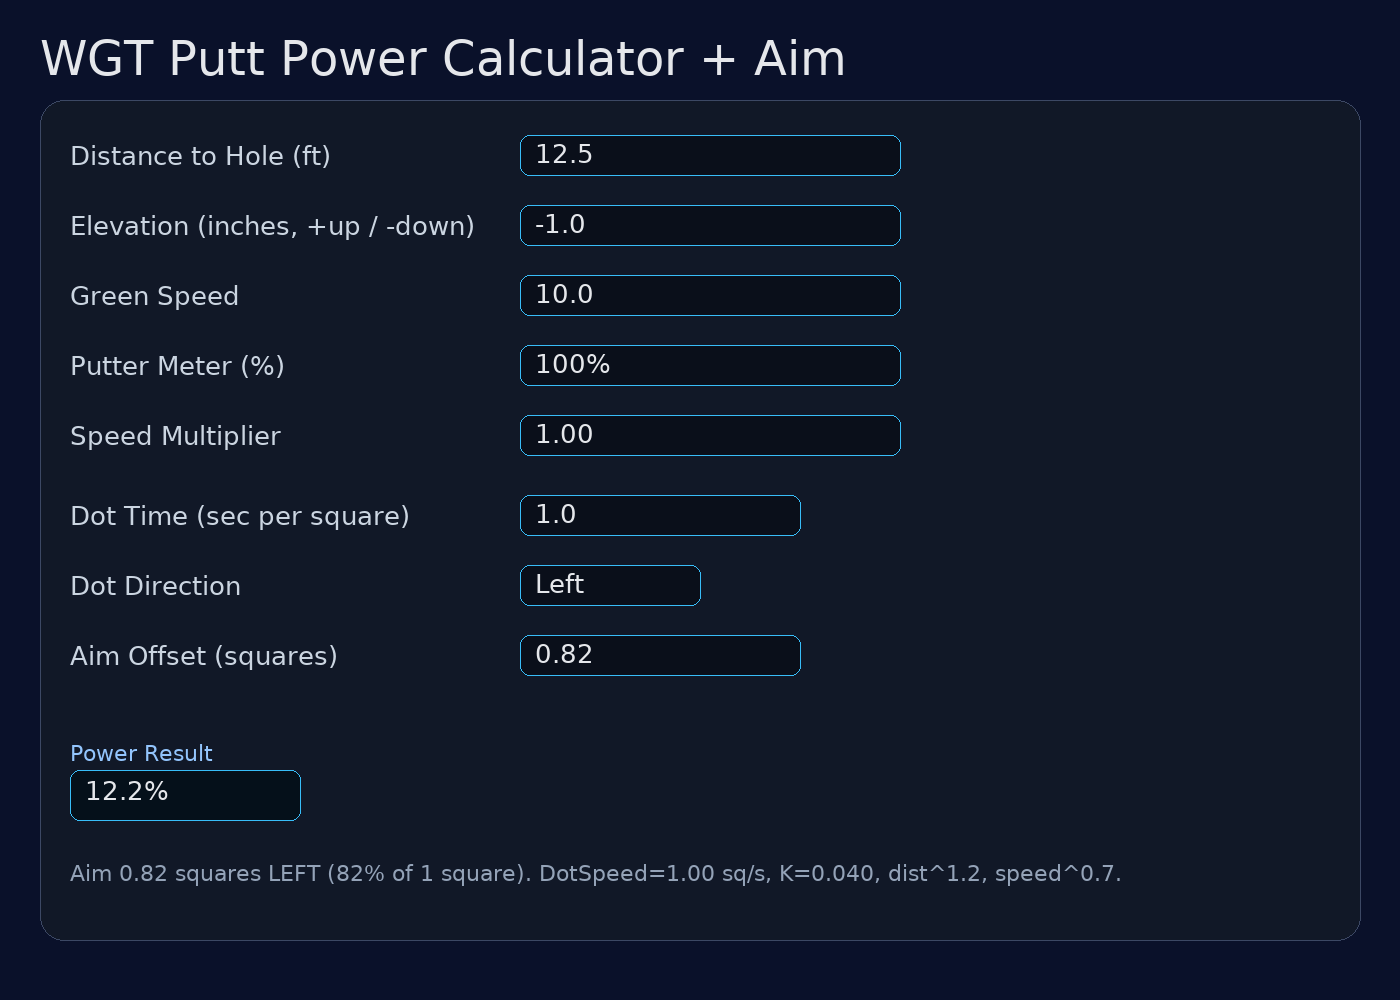
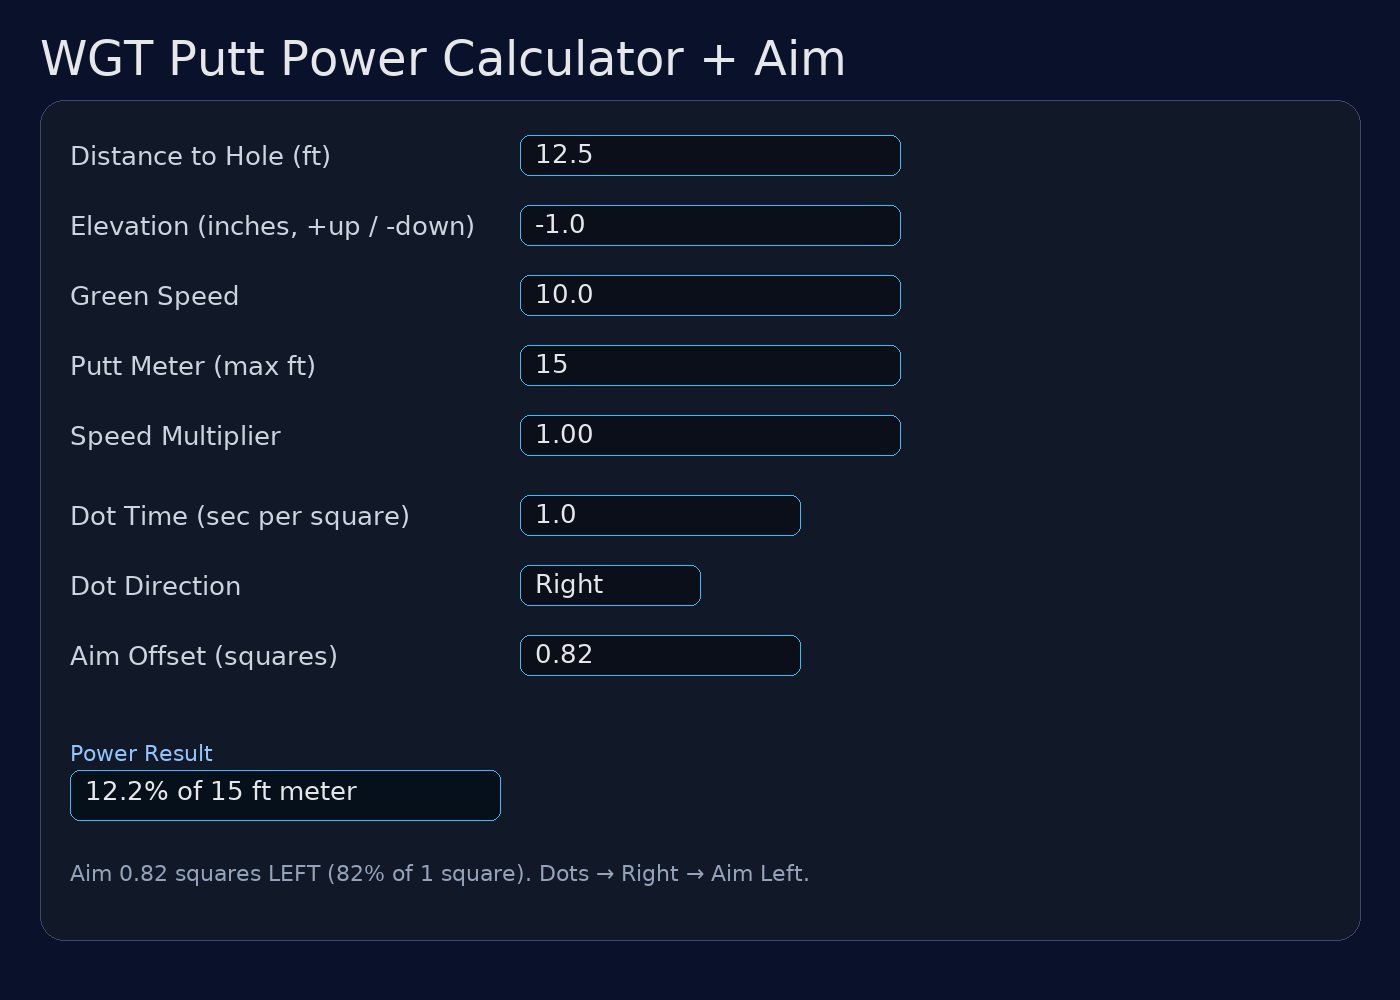
Add files via upload
Updated putt meter

diff --git a/index.html b/index.html
@@ -4,6 +4,7 @@
 <meta charset="utf-8">
 <meta name="viewport" content="width=device-width, initial-scale=1">
 <title>WGT Putt Power Calculator + Aim</title>
+<!-- version: 2025-08-09 r3 -->
 <style>
   :root{
     --bg:#0f172a; --panel:#111827; --muted:#334155; --text:#e5e7eb;
@@ -84,15 +85,24 @@
         <label for="greenSpeed">Green Speed (e.g., 10.0 = Very Fast)</label>
         <input id="greenSpeed" inputmode="decimal" type="number" step="0.1" value="10.0">
       </div>
+
       <div class="col-4">
-        <label for="putterMeter">Putter Meter (%)</label>
-        <select id="putterMeter">
-          <option value="100" selected>100%</option>
-          <option value="75">75%</option>
-          <option value="50">50%</option>
-          <option value="25">25%</option>
+        <label for="meterMax">Putt Meter (max distance, ft)</label>
+        <select id="meterMax">
+          <option value="10">10</option>
+          <option value="15" selected>15</option>
+          <option value="20">20</option>
+          <option value="25">25</option>
+          <option value="30">30</option>
+          <option value="45">45</option>
+          <option value="60">60</option>
+          <option value="90">90</option>
+          <option value="120">120</option>
+          <option value="150">150</option>
         </select>
+        <div class="hint">Choose the putt meter you use in-game.</div>
       </div>
+
       <div class="col-4">
         <label for="stimp">Speed Multiplier (tuning)</label>
         <input id="stimp" inputmode="decimal" type="number" step="0.01" value="1.00">
@@ -107,7 +117,7 @@
             <div class="col-4">
               <label for="dotTime">Dot Time — seconds per grid square</label>
               <input id="dotTime" inputmode="decimal" type="number" step="0.1" placeholder="e.g., 1.0">
-              <div class="hint">Time a single dot to travel one grid square near the hole; average a few readings.</div>
+              <div class="hint">Time a dot across one grid square near the hole; average a few readings.</div>
             </div>
             <div class="col-4">
               <label for="dotDir">Dot Direction (facing the hole)</label>
@@ -115,6 +125,7 @@
                 <option value="L">Left</option>
                 <option value="R">Right</option>
               </select>
+              <div class="hint">If dots move RIGHT, aim LEFT (and vice‑versa).</div>
             </div>
             <div class="col-4">
               <label for="aimOut">Aim Offset (squares)</label>
@@ -129,27 +140,22 @@
               <div class="col-3">
                 <label for="breakK">Break Coefficient @ speed 10</label>
                 <input id="breakK" inputmode="decimal" type="number" step="0.005" value="0.040">
-                <div class="hint">Scales overall aim. Increase if you under-read.</div>
               </div>
               <div class="col-3">
                 <label for="distExp">Distance Exponent</label>
                 <input id="distExp" inputmode="decimal" type="number" step="0.05" value="1.20">
-                <div class="hint">Nonlinear growth with distance.</div>
               </div>
               <div class="col-3">
                 <label for="spdExp">Green Speed Exponent</label>
                 <input id="spdExp" inputmode="decimal" type="number" step="0.05" value="0.70">
-                <div class="hint">How much faster greens add break.</div>
               </div>
               <div class="col-3">
                 <label for="upBreakPerFt">Uphill Break (%/ft)</label>
                 <input id="upBreakPerFt" inputmode="decimal" type="number" step="0.01" value="-0.30">
-                <div class="hint">Negative reduces break for uphill.</div>
               </div>
               <div class="col-3">
                 <label for="dnBreakPerFt">Downhill Break (%/ft)</label>
                 <input id="dnBreakPerFt" inputmode="decimal" type="number" step="0.01" value="+0.40">
-                <div class="hint">Positive increases break for downhill.</div>
               </div>
             </div>
           </details>
@@ -171,7 +177,7 @@
   </div>
 
   <div class="footer">
-    Tip: For better dot timing, count 3 squares and divide by 3 to average out jitter.
+    Tip: For steadier dot timing, count 3 squares then divide by 3.
   </div>
 </div>
 
@@ -179,7 +185,7 @@
 (function(){
   const $ = id => document.getElementById(id);
   const fields = [
-    "distance","elevationIn","greenSpeed","putterMeter","stimp",
+    "distance","elevationIn","greenSpeed","meterMax","stimp",
     "dotTime","dotDir","breakK","distExp","spdExp","upBreakPerFt","dnBreakPerFt","snapPenalty"
   ];
 
@@ -192,7 +198,7 @@
 
   // Load saved values
   try{
-    const saved = JSON.parse(localStorage.getItem("wgt_putt_aim_v1")||"{}");
+    const saved = JSON.parse(localStorage.getItem("wgt_putt_aim_v3")||"{}");
     fields.forEach(f=>{
       if(saved[f] !== undefined && $(f)){
         $(f).value = saved[f];
@@ -220,7 +226,7 @@
   function save(){
     const obj={};
     fields.forEach(f=>{ if($(f)) obj[f] = $(f).value; });
-    localStorage.setItem("wgt_putt_aim_v1", JSON.stringify(obj));
+    localStorage.setItem("wgt_putt_aim_v3", JSON.stringify(obj));
   }
 
   function formatPct(x){
@@ -228,12 +234,12 @@
   }
 
   function calc(){
-    // --- Power calc (unchanged core) ---
-    const dist_ft = toNum("distance", 0);                  // feet
-    const elev_in = toNum("elevationIn", -1.0);            // inches (UI)
-    const elev_ft = elev_in / 12.0;                        // convert to feet for math
+    // --- Power calc ---
+    const dist_ft = toNum("distance", 0);
+    const elev_in = toNum("elevationIn", -1.0);
+    const elev_ft = elev_in / 12.0;
     const speed = toNum("greenSpeed", 10.0);
-    const meter = parseFloat($("putterMeter").value) || 100;
+    const meterMax_ft = toNum("meterMax", 15.0);
     const mult  = toNum("stimp", 1.00);
     const snapP = toNum("snapPenalty", 0);
 
@@ -245,28 +251,21 @@
       return;
     }
 
-    // Effective distance with elevation
-    const upF   = 1.70;
-    const dnF   = 0.65;
+    const upF = 1.70, dnF = 0.65;
     const elevAdj_ft = elev_ft > 0 ? elev_ft * upF : elev_ft * dnF;
     const effDist_ft = Math.max(0, dist_ft + elevAdj_ft);
 
-    // Speed scaling (anchor to 10.0)
     const speedScale = (speed / 10.0) * mult;
+    let powerPct = (effDist_ft / (meterMax_ft * speedScale)) * 100.0;
+    powerPct *= (1 + snapP/100);
+    powerPct = clamp(powerPct, 0, 100);
 
-    let rawPowerPct = (effDist_ft / 100.0) * 100.0 * (1 / speedScale);
-    const meterScale = 100.0 / meter;
-    rawPowerPct *= meterScale;
-    rawPowerPct *= (1 + snapP/100);
-    rawPowerPct = clamp(rawPowerPct, 0, 100);
-
-    $("result").textContent = formatPct(rawPowerPct);
+    $("result").textContent = `Power: ${formatPct(powerPct)} of ${meterMax_ft.toFixed(0)} ft meter`;
     $("explain").textContent =
-      `Inputs → ${dist_ft.toFixed(1)} ft, elevation ${elev_in.toFixed(1)} in (${elev_ft.toFixed(3)} ft), speed ${speed.toFixed(1)}, meter ${meter}%. ` +
-      `Calc → Elev adj ${elevAdj_ft.toFixed(2)} ft ➜ eff ${effDist_ft.toFixed(2)} ft. SpeedScale ${speedScale.toFixed(3)}, MeterScale ${meterScale.toFixed(2)}.`;
+      `EffDist ${effDist_ft.toFixed(2)} ft (elev adj ${elevAdj_ft.toFixed(2)} ft). SpeedScale ${speedScale.toFixed(3)}.`;
 
-    // --- Aim calc (new) ---
-    const t_sq = toNum("dotTime", 0);        // seconds per square
+    // --- Aim calc ---
+    const t_sq = toNum("dotTime", 0);
     const dir = ($("dotDir").value || "L").toUpperCase();
     const K = toNum("breakK", 0.040);
     const a = toNum("distExp", 1.20);
@@ -275,56 +274,53 @@
     const dnPctPerFt = toNum("dnBreakPerFt", +0.40);
 
     if(t_sq > 0){
-      const dotSpeed = 1.0 / t_sq; // squares per second
+      const dotSpeed = 1.0 / t_sq; // squares/s
       const greenFactor = Math.pow((speed/10.0) * mult, b);
       const distFactor = Math.pow(effDist_ft, a);
       const elevBreakFactor = elev_ft >= 0
-        ? (1 + elev_ft * upPctPerFt)   // uphill reduces break (negative default)
-        : (1 + Math.abs(elev_ft) * dnPctPerFt); // downhill increases break (positive default)
-
-      const elevAdjFactor = Math.max(0.2, elevBreakFactor); // keep non-negative
+        ? (1 + elev_ft * upPctPerFt)   // uphill reduces break
+        : (1 + Math.abs(elev_ft) * dnPctPerFt); // downhill increases break
+      const elevAdjFactor = Math.max(0.2, elevBreakFactor);
 
       let aimSquares = K * dotSpeed * greenFactor * distFactor * elevAdjFactor;
 
-      // Direction: positive -> aim LEFT, negative -> aim RIGHT
-      if(dir === "R") aimSquares *= -1;
+      // Direction mapping: dots RIGHT => aim LEFT (positive); dots LEFT => aim RIGHT (negative)
+      aimSquares *= (dir === "R" ? +1 : -1);
 
-      // Round to hundredths of a square
       aimSquares = Math.round(aimSquares * 100) / 100;
-
       const absAim = Math.abs(aimSquares);
       const side = aimSquares >= 0 ? "LEFT" : "RIGHT";
       const frac = absAim < 1 ? ` (${Math.round(absAim*100)}% of 1 square)` : "";
-      document.getElementById("aimOut").value = `${aimSquares}`;
-      document.getElementById("aimExplain").textContent =
+      $("aimOut").value = `${aimSquares}`;
+      $("aimExplain").textContent =
         `Aim ${absAim.toFixed(2)} square${absAim===1? "":"s"} ${side}${frac}. ` +
         `DotSpeed=${dotSpeed.toFixed(2)} sq/s, K=${K}, dist^${a}, speed^${b}, elevFactor=${elevAdjFactor.toFixed(2)}.`;
     }else{
-      document.getElementById("aimOut").value = "—";
-      document.getElementById("aimExplain").textContent = "Enter a Dot Time (sec per square) to compute aim.";
+      $("aimOut").value = "—";
+      $("aimExplain").textContent = "Enter a Dot Time (sec per square) to compute aim.";
     }
 
     save();
   }
 
-  document.getElementById("calcBtn").addEventListener("click", calc);
-  document.getElementById("resetBtn").addEventListener("click", ()=>{
-    document.getElementById("distance").value = "";
-    document.getElementById("elevationIn").value = (-1.0).toFixed(1);
-    document.getElementById("greenSpeed").value = "10.0";
-    document.getElementById("putterMeter").value = "100";
-    document.getElementById("stimp").value = "1.00";
-    document.getElementById("dotTime").value = "";
-    document.getElementById("dotDir").value = "L";
-    document.getElementById("breakK").value = "0.040";
-    document.getElementById("distExp").value = "1.20";
-    document.getElementById("spdExp").value = "0.70";
-    document.getElementById("upBreakPerFt").value = "-0.30";
-    document.getElementById("dnBreakPerFt").value = "+0.40";
-    document.getElementById("result").textContent = "Enter values and tap Calculate.";
-    document.getElementById("aimOut").value = "—";
-    document.getElementById("aimExplain").textContent = "";
-    document.getElementById("explain").textContent = "";
+  $("calcBtn").addEventListener("click", calc);
+  $("resetBtn").addEventListener("click", ()=>{
+    $("distance").value = "";
+    $("elevationIn").value = (-1.0).toFixed(1);
+    $("greenSpeed").value = "10.0";
+    $("meterMax").value = "15";
+    $("stimp").value = "1.00";
+    $("dotTime").value = "";
+    $("dotDir").value = "L";
+    $("breakK").value = "0.040";
+    $("distExp").value = "1.20";
+    $("spdExp").value = "0.70";
+    $("upBreakPerFt").value = "-0.30";
+    $("dnBreakPerFt").value = "+0.40";
+    $("result").textContent = "Enter values and tap Calculate.";
+    $("aimOut").value = "—";
+    $("aimExplain").textContent = "";
+    $("explain").textContent = "";
     save();
   });
 })();
